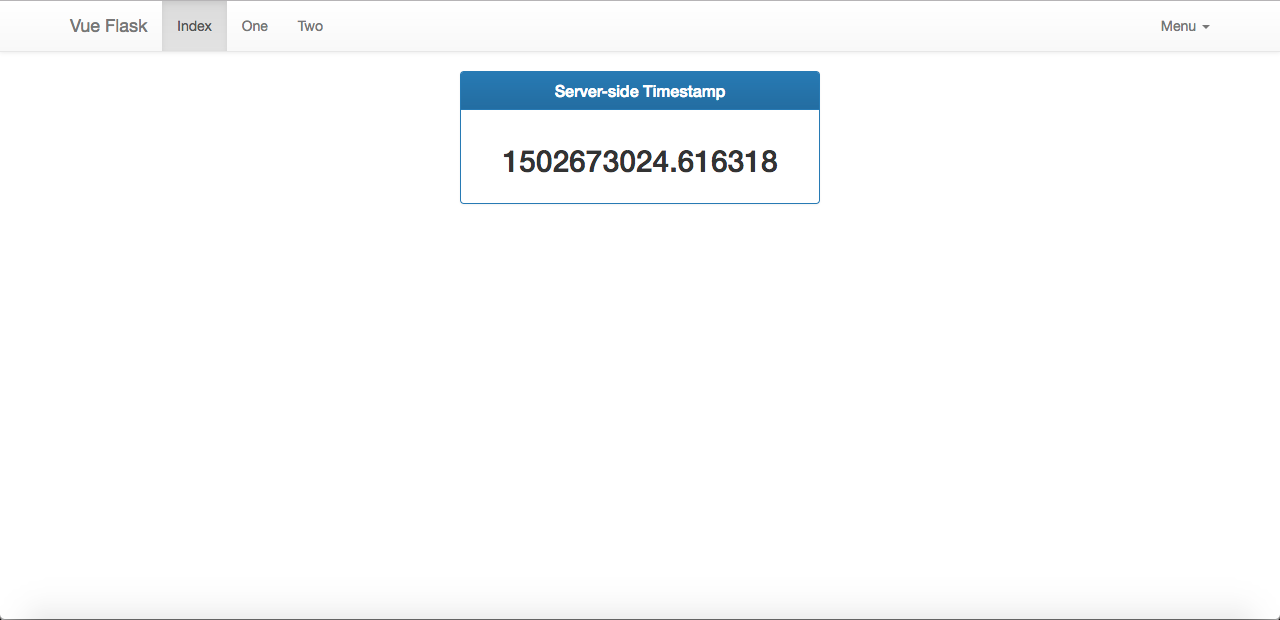
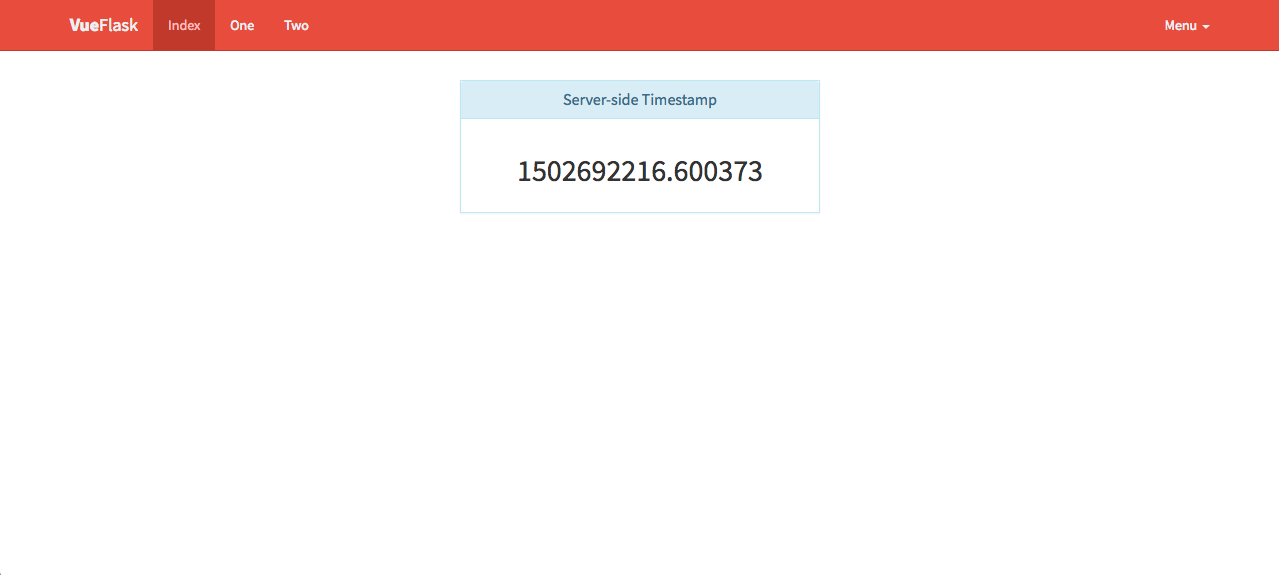
A little CSS to spruce up the joint because, why not?

Changed region(s): [[0.0, 0.0, 1.0, 0.207], [0.3659, 0.2365, 0.6403, 0.3548]]

diff --git a/app/static/css/index.css b/app/static/css/index.css
@@ -1,4 +1,84 @@
+html,
 body {
-  min-height: 2000px;
-  padding-top: 70px;
+  height: 100%;
+  padding-top: 40px;
+  font-family: 'Source Sans Pro', 'Helvetica Neue', Helvetica, Arial, sans-serif;
+  font-weight: 400;
+  overflow-x: hidden;
+  overflow-y: auto;
+}
+.layout-boxed html,
+.layout-boxed body {
+  height: 100%;
+}
+.navbar-default {
+  background-color: #e74c3c;
+  border-color: #c0392b;
+}
+.navbar-default .navbar-brand {
+  color: #ecf0f1;
+}
+.navbar-default .navbar-brand:hover,
+.navbar-default .navbar-brand:focus {
+  color: #ffbbbc;
+}
+.navbar-default .navbar-text {
+  color: #ecf0f1;
+}
+.navbar-default .navbar-nav > li > a {
+  color: #ecf0f1;
+}
+.navbar-default .navbar-nav > li > a:hover,
+.navbar-default .navbar-nav > li > a:focus {
+  color: #ffbbbc;
+}
+.navbar-default .navbar-nav > .active > a,
+.navbar-default .navbar-nav > .active > a:hover,
+.navbar-default .navbar-nav > .active > a:focus {
+  color: #ffbbbc;
+  background-color: #c0392b;
+}
+.navbar-default .navbar-nav > .open > a,
+.navbar-default .navbar-nav > .open > a:hover,
+.navbar-default .navbar-nav > .open > a:focus {
+  color: #ffbbbc;
+  background-color: #c0392b;
+}
+.navbar-default .navbar-toggle {
+  border-color: #c0392b;
+}
+.navbar-default .navbar-toggle:hover,
+.navbar-default .navbar-toggle:focus {
+  background-color: #c0392b;
+}
+.navbar-default .navbar-toggle .icon-bar {
+  background-color: #ecf0f1;
+}
+.navbar-default .navbar-collapse,
+.navbar-default .navbar-form {
+  border-color: #ecf0f1;
+}
+.navbar-default .navbar-link {
+  color: #ecf0f1;
+}
+.navbar-default .navbar-link:hover {
+  color: #ffbbbc;
+}
+.panel {
+  border-radius: 0px;
+}
+@media (max-width: 767px) {
+  .navbar-default .navbar-nav .open .dropdown-menu > li > a {
+    color: #ecf0f1;
+  }
+  .navbar-default .navbar-nav .open .dropdown-menu > li > a:hover,
+  .navbar-default .navbar-nav .open .dropdown-menu > li > a:focus {
+    color: #ffbbbc;
+  }
+  .navbar-default .navbar-nav .open .dropdown-menu > .active > a,
+  .navbar-default .navbar-nav .open .dropdown-menu > .active > a:hover,
+  .navbar-default .navbar-nav .open .dropdown-menu > .active > a:focus {
+    color: #ffbbbc;
+    background-color: #c0392b;
+  }
 }

diff --git a/app/templates/index.html b/app/templates/index.html
@@ -5,7 +5,7 @@
     <div class="row">
         <div class="col-sm-4"></div>
         <div class="col-sm-4">
-            <div class="panel panel-primary text-center">
+            <div class="panel panel-info text-center">
                 <div class="panel-heading">
                     <h3 class="panel-title">Server-side Timestamp</h3>
                 </div>
@@ -23,3 +23,4 @@
 </div>
 {{ super() }}
 {% endblock %}
+

diff --git a/app/templates/one.html b/app/templates/one.html
@@ -5,7 +5,7 @@
     <div class="row">
         <div class="col-sm-4"></div>
         <div class="col-sm-4">
-            <div class="panel panel-primary text-center">
+            <div class="panel panel-info text-center">
                 <div class="panel-heading">
                     <h3 class="panel-title">Page One Example</h3>
                 </div>

diff --git a/app/templates/two.html b/app/templates/two.html
@@ -5,7 +5,7 @@
     <div class="row">
         <div class="col-sm-4"></div>
         <div class="col-sm-4">
-            <div class="panel panel-primary text-center">
+            <div class="panel panel-info text-center">
                 <div class="panel-heading">
                     <h3 class="panel-title">Page Two Example</h3>
                 </div>

diff --git a/app/templates/core/navbar.html b/app/templates/core/navbar.html
@@ -15,7 +15,7 @@
                 <span class="icon-bar"></span>
                 <span class="icon-bar"></span>
             </button>
-            <a class="navbar-brand" href="#">Vue Flask</a>
+            <a class="navbar-brand" href="#"><b>Vue</b>Flask</a>
         </div>
         <div id="navbar" class="navbar-collapse collapse">
 

diff --git a/app/templates/core/header/links.html b/app/templates/core/header/links.html
@@ -1,1 +1,2 @@
 <link rel="stylesheet" href="{{ url_for('static', filename='css/index.css') }}"/>
+<link rel="stylesheet" href="https://fonts.googleapis.com/css?family=Source+Sans+Pro:300,400,600,700,300italic,400italic,600italic">

diff --git a/README.md b/README.md
@@ -10,7 +10,7 @@ Quick Flask Dashboard using Vue.js, Python, Flask and Flask Bootstrap.
 * Removed strict requirement of virtual environment and leaves that option to the end-user
 * Usage of a fixed top navigation bar in lieu of tabs
 * Updated versions of JavaScript components
-* Handed over the responsibility of Bootstrap over to Flask
+* Handed over the responsibility of Bootstrap to Flask
 
 ## Stack
 
